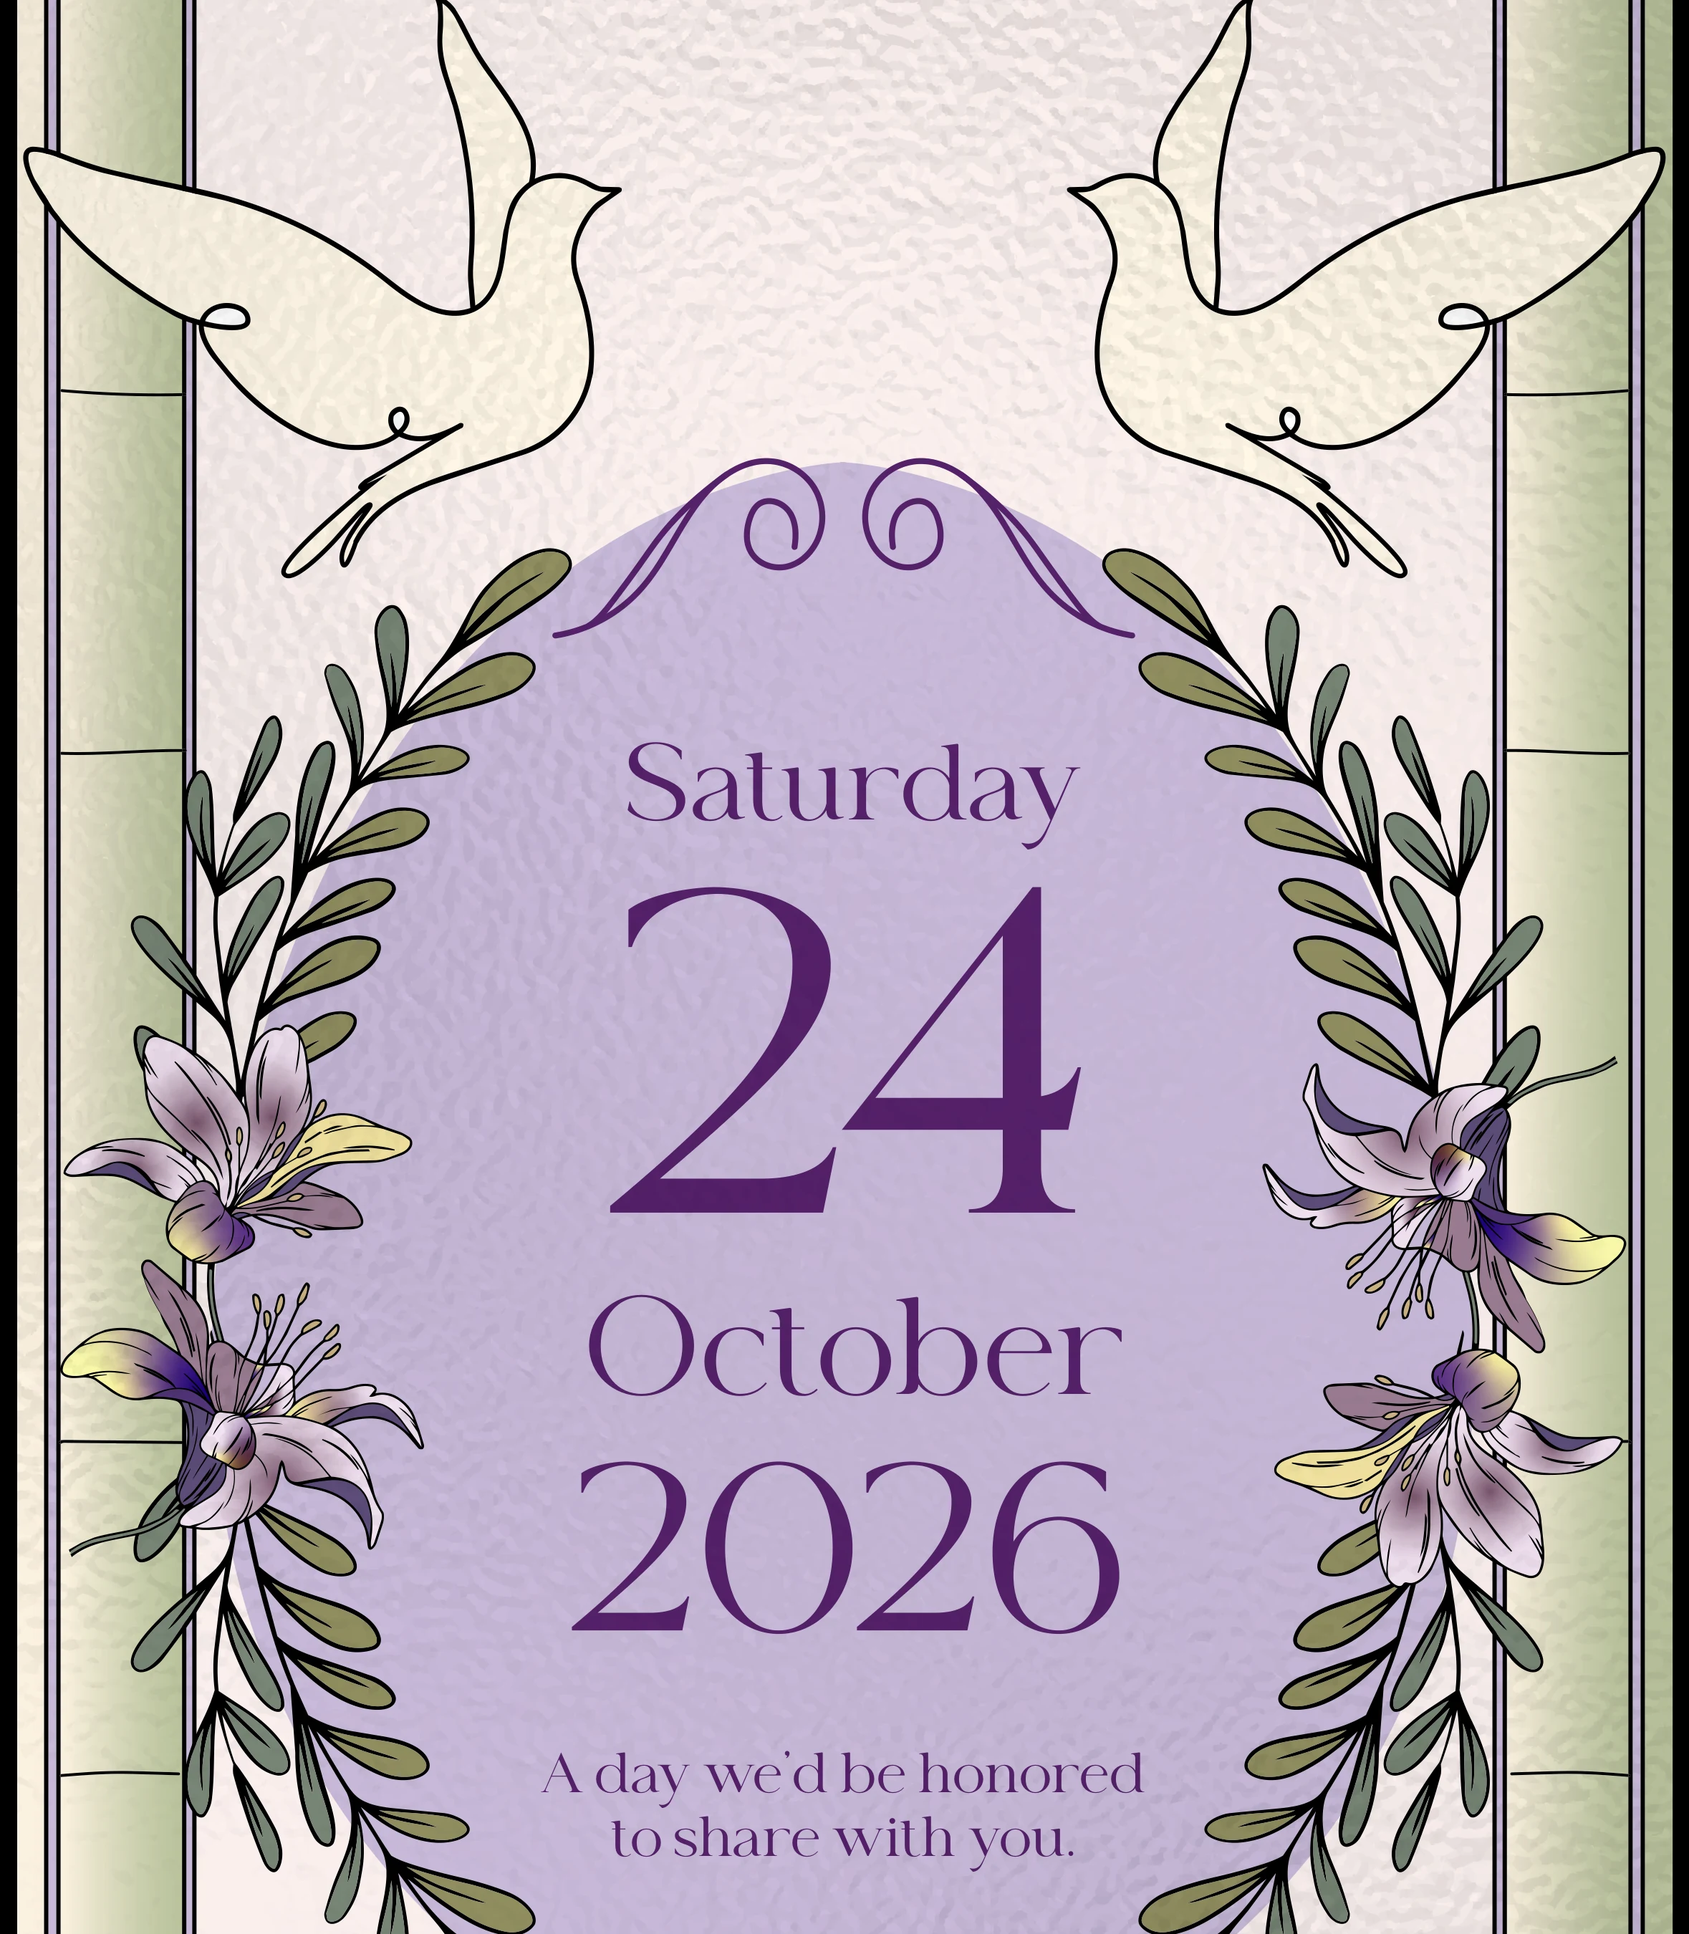
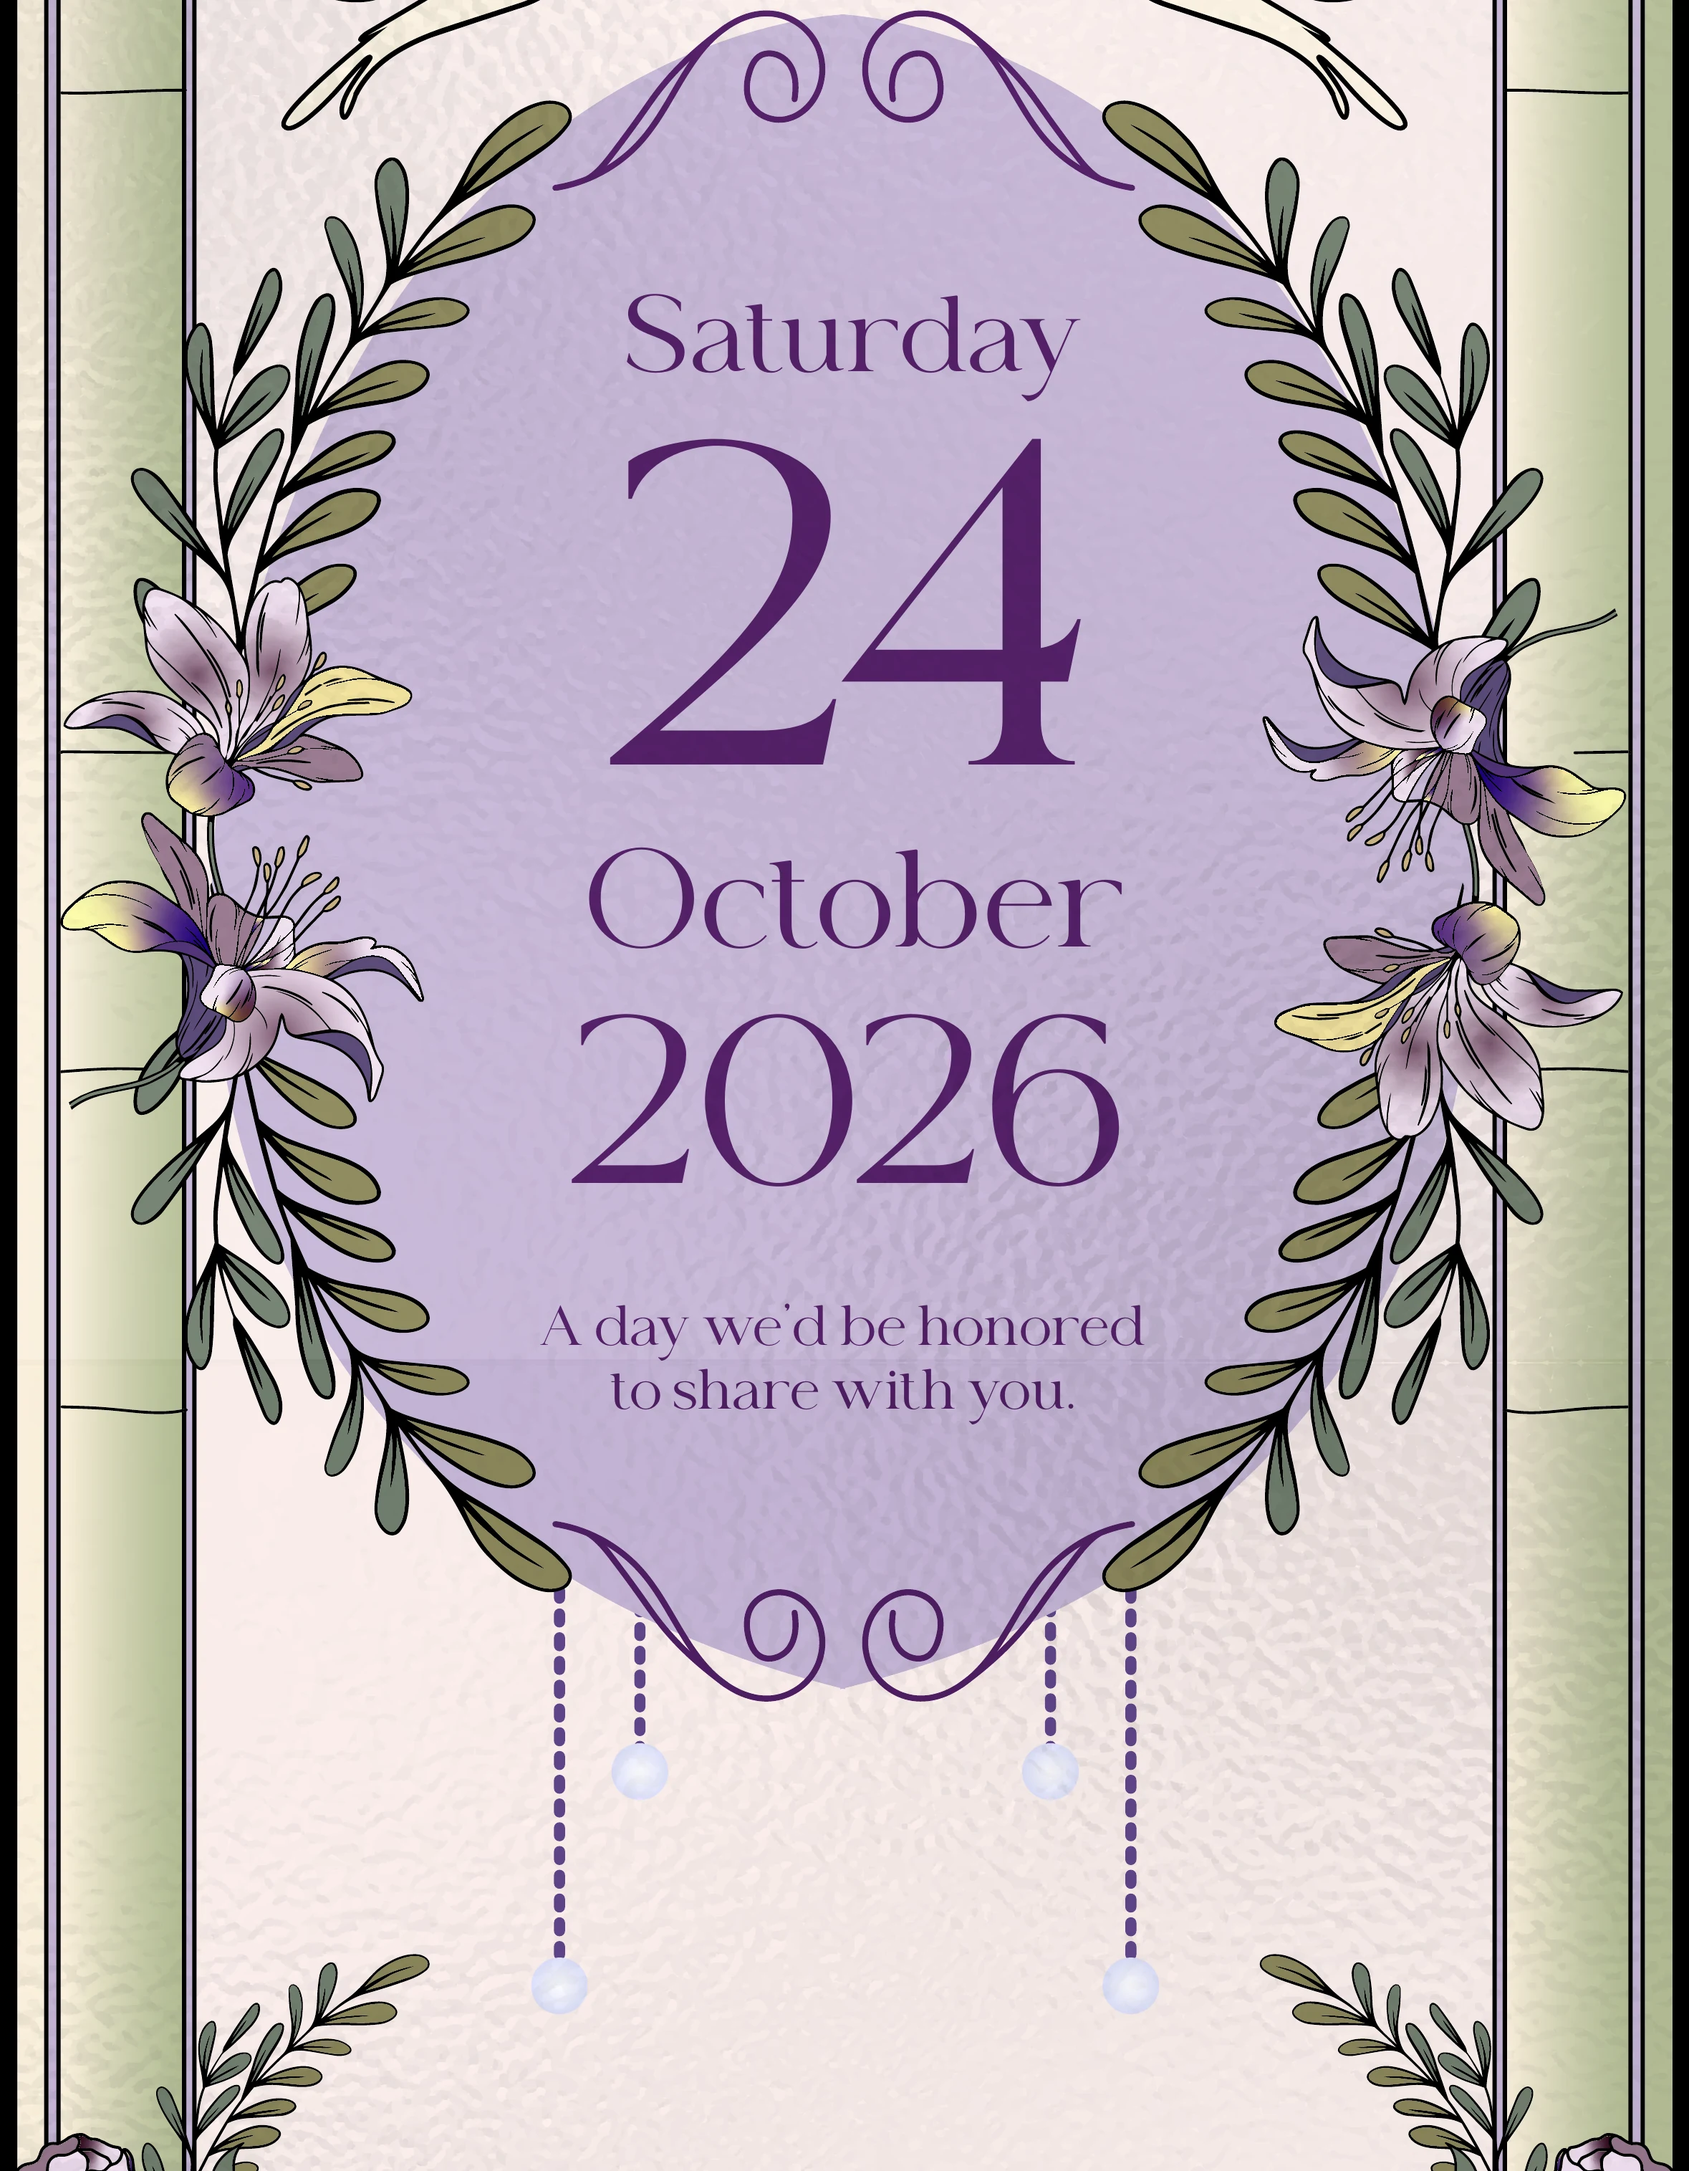
Rebuild invitation to match new shorter PDF design: remove notes section, add song requests, keep purple countdown

diff --git a/index.html b/index.html
@@ -445,44 +445,41 @@
 
 <div class="invite-page">
   <div class="invite-wrap" id="inviteWrap">
-    <img class="bg" src="images/section_00.webp" alt="Stained-glass arch with doves and lilies framing the initial M, for the wedding of Nancy and Marc" width="2358" height="2300">
-    <img class="bg" src="images/section_01.webp?v=3" alt="" role="presentation" width="2358" height="1100">
-    <img class="bg" src="images/section_02.webp" alt="Nancy Nashaat and Marc Adel, together with their families, joyfully invite you to celebrate their wedding" width="2358" height="2500">
-    <img class="bg" src="images/section_03.webp" alt="Saturday 24 October 2026 — a day we'd be honored to share with you" width="2358" height="2700">
-    <img class="bg" src="images/section_04.webp?v=2" alt="Countdown to the wedding" width="2358" height="1670">
-    <img class="bg" src="images/section_05.webp?v=2" alt="Ceremony at St. Mark Coptic Orthodox Church, please arrive by 3:30 PM" width="2358" height="2134">
-    <img class="bg" src="images/section_06.webp?v=2" alt="Reception at Hilton Cairo Heliopolis, The Garden, doors open at 5:30 PM" width="2358" height="1198">
-    <img class="bg" src="images/section_07.webp?v=4" alt="RSVP form" width="2358" height="2398">
-    <img class="bg" src="images/section_08.webp" alt="A few friendly notes" width="2358" height="1406">
-    <img class="bg" src="images/section_09.webp?v=2" alt="A little note about little ones, church parking, and greetings and photos" width="2358" height="1994">
-    <img class="bg" src="images/section_10.webp" alt="" role="presentation" width="2358" height="742">
-    <img class="bg" src="images/section_11.webp" alt="We can't wait to celebrate with you — thank you for being part of one of the most meaningful days of our lives. With love, Nancy and Marc" width="2358" height="1836">
+    <img class="bg" src="images/section_00.webp" alt="Stained-glass arch with doves and lilies framing the initial M, for the wedding of Nancy and Marc" width="2358" height="2250">
+    <img class="bg" src="images/section_01.webp" alt="So they are no longer two, but one flesh. Therefore what God has joined together, let no one separate. (Matthew 19:6) — Nancy Nashaat and Marc Adel" width="2358" height="2640">
+    <img class="bg" src="images/section_02.webp" alt="Together with their families, joyfully invite you to celebrate their wedding" width="2358" height="1635">
+    <img class="bg" src="images/section_03.webp" alt="Saturday 24 October 2026 — a day we'd be honored to share with you" width="2358" height="3030">
+    <img class="bg" src="images/section_04.webp" alt="Countdown for the big day! Ceremony at St. Mark Coptic Orthodox Church, please arrive by 3:30 PM. Can't join us in person? Watch the ceremony live on Youtube." width="2358" height="3075">
+    <img class="bg" src="images/section_05.webp" alt="Reception following the ceremony at Hilton Cairo Heliopolis, Venue: The Garden, doors open at 5:30 PM" width="2358" height="1620">
+    <img class="bg" src="images/section_06.webp" alt="RSVP form — sweet dreams for your little ones while you celebrate with us" width="2358" height="2700">
+    <img class="bg" src="images/section_07.webp" alt="Song requests — help us keep the dance full by suggesting a song" width="2358" height="2175">
+    <img class="bg" src="images/section_08.webp" alt="We can't wait to celebrate with you — thank you for being part of one of the most meaningful days of our lives. With love, Nancy and Marc" width="2358" height="1965">
 
     <!-- Ceremony: Get directions (real GPS pin, from the couple's data) -->
     <a class="hit" id="linkChurch" href="https://www.google.com/maps?q=30.092389,31.3296598" target="_blank" rel="noopener"
-       style="left:40.034cqw; top:494.148cqw; width:19.771cqw; height:4.258cqw;"
+       style="left:39.440cqw; top:502.884cqw; width:20.992cqw; height:4.750cqw;"
        aria-label="Get directions to St. Mark Coptic Orthodox Church"></a>
 
     <!-- Ceremony: Watch live -->
     <a class="hit" id="linkWatch" href="https://www.youtube.com/watch?v=KPPSCLWU6KE" target="_blank" rel="noopener"
-       style="left:42.519cqw; top:514.750cqw; width:14.809cqw; height:4.266cqw;"
+       style="left:41.942cqw; top:523.579cqw; width:15.988cqw; height:4.665cqw;"
        aria-label="Watch the ceremony live on YouTube"></a>
 
-    <!-- Ceremony: Add to Calendar -->
+    <!-- Ceremony: Add to Calendar (text is baked into the new artwork, so this is a transparent hit area only) -->
     <button type="button" class="cal-link" id="calChurchLink"
-            style="left:33cqw; top:519.5cqw; width:34cqw; font-size:2.4cqw;">+ Add to Calendar</button>
+            style="left:37.489cqw; top:530.619cqw; width:24.894cqw; height:4.283cqw;" aria-label="Add ceremony to calendar"></button>
 
     <!-- Reception: Get directions (real GPS pin) -->
     <a class="hit" id="linkVenue" href="https://www.google.com/maps?q=30.1067689,31.3645509" target="_blank" rel="noopener"
-       style="left:39.593cqw; top:566.921cqw; width:20.950cqw; height:4.512cqw;"
+       style="left:33.249cqw; top:577.608cqw; width:33.927cqw; height:4.453cqw;"
        aria-label="Get directions to Hilton Cairo Heliopolis"></a>
 
-    <!-- Reception: Add to Calendar -->
+    <!-- Reception: Add to Calendar (text is baked into the new artwork, so this is a transparent hit area only) -->
     <button type="button" class="cal-link" id="calReceptionLink"
-            style="left:33cqw; top:571.2cqw; width:34cqw; font-size:2.4cqw;">+ Add to Calendar</button>
+            style="left:39.143cqw; top:583.927cqw; width:22.180cqw; height:4.877cqw;" aria-label="Add reception to calendar"></button>
 
     <!-- Live countdown, styled to match the flip-tile artwork it replaces -->
-    <div class="countdown" id="countdown" style="left:19.805cqw; top:417.697cqw; width:61.154cqw;" aria-live="off">
+    <div class="countdown" id="countdown" style="left:19.720cqw; top:419.847cqw; width:61.493cqw;" aria-live="off">
       <div class="cd-group">
         <div class="cd-tiles"><div class="cd-tile" data-slot="d0"><span>0</span></div><div class="cd-tile" data-slot="d1"><span>0</span></div></div>
         <div class="cd-label">Days</div>
@@ -506,32 +503,46 @@
     <form id="rsvpForm" autocomplete="on">
       <input class="field" type="text" id="fullName" name="fullName" required
              aria-label="Full name" autocomplete="name"
-             style="left:27.439cqw; top:595.225cqw; width:44.970cqw; height:3.800cqw; font-size:2.4cqw;">
+             style="left:27.396cqw; top:629.220cqw; width:45.674cqw; height:3.859cqw; font-size:2.4cqw;">
 
-      <label class="radio-hit" style="left:27.583cqw; top:608.846cqw; width:7.829cqw; height:3.766cqw;">
+      <label class="radio-hit" style="left:27.057cqw; top:642.451cqw; width:14.080cqw; height:4.241cqw;">
         <input type="radio" name="attending" value="yes" required aria-label="Yes, I will attend">
-        <span class="radio-dot" style="top:0.679cqw; width:2.578cqw; height:2.587cqw;"></span>
+        <span class="radio-dot" style="left:0.848cqw; top:0.848cqw; width:2.545cqw; height:2.545cqw;"></span>
       </label>
-      <label class="radio-hit" style="left:27.583cqw; top:614.919cqw; width:6.887cqw; height:3.757cqw;">
+      <label class="radio-hit" style="left:27.057cqw; top:648.304cqw; width:14.080cqw; height:4.241cqw;">
         <input type="radio" name="attending" value="no" aria-label="No, I can't attend">
-        <span class="radio-dot" style="top:0.340cqw; width:2.578cqw; height:2.578cqw;"></span>
+        <span class="radio-dot" style="left:0.848cqw; top:0.848cqw; width:2.545cqw; height:2.545cqw;"></span>
       </label>
 
-      <label class="radio-hit" style="left:27.583cqw; top:628.931cqw; width:7.829cqw; height:3.757cqw;">
+      <label class="radio-hit" style="left:27.057cqw; top:662.680cqw; width:14.080cqw; height:4.241cqw;">
         <input type="radio" name="plusOne" value="yes" aria-label="Yes, with a guest">
-        <span class="radio-dot" style="top:0.679cqw; width:2.578cqw; height:2.587cqw;"></span>
+        <span class="radio-dot" style="left:0.848cqw; top:0.848cqw; width:2.545cqw; height:2.545cqw;"></span>
       </label>
-      <label class="radio-hit" style="left:27.583cqw; top:634.996cqw; width:6.879cqw; height:3.766cqw;">
+      <label class="radio-hit" style="left:27.057cqw; top:668.533cqw; width:14.080cqw; height:4.241cqw;">
         <input type="radio" name="plusOne" value="no" aria-label="No, attending alone">
-        <span class="radio-dot" style="top:0.339cqw; width:2.578cqw; height:2.587cqw;"></span>
+        <span class="radio-dot" style="left:0.848cqw; top:0.848cqw; width:2.545cqw; height:2.545cqw;"></span>
       </label>
 
       <input class="field" type="text" id="guestName" name="guestName" hidden
              placeholder="Guest's name" aria-label="Guest name" autocomplete="off"
-             style="left:27.439cqw; top:647.769cqw; width:44.970cqw; height:3.800cqw; font-size:2.4cqw;">
+             style="left:27.396cqw; top:681.128cqw; width:45.674cqw; height:4.495cqw; font-size:2.4cqw;">
 
       <button class="submit-hit" type="submit" id="submitBtn" aria-label="Submit RSVP"
-              style="left:36.522cqw; top:663.036cqw; width:26.802cqw; height:5.428cqw;"></button>
+              style="left:27.226cqw; top:707.337cqw; width:46.141cqw; height:3.393cqw;"></button>
+    </form>
+
+    <!-- Song requests -->
+    <form id="songForm" autocomplete="off">
+      <input class="field" type="text" id="songName" name="songName" required
+             aria-label="Song name"
+             style="left:27.735cqw; top:757.252cqw; width:45.335cqw; height:4.665cqw; font-size:2.4cqw;">
+
+      <input class="field" type="text" id="songArtist" name="songArtist"
+             aria-label="Artist"
+             style="left:27.947cqw; top:776.760cqw; width:44.826cqw; height:4.623cqw; font-size:2.4cqw;">
+
+      <button class="submit-hit" type="submit" id="songSubmitBtn" aria-label="Send song request"
+              style="left:34.139cqw; top:789.398cqw; width:29.347cqw; height:5.047cqw;"></button>
     </form>
 
     <div class="toast" id="toast" role="status"></div>
@@ -929,6 +940,44 @@ window.storage = {
       showToast("Couldn't send (" + detail + ") — please try again.");
     } finally {
       submitBtn.disabled = false;
+    }
+  });
+
+  /* ---------------- Song requests ---------------- */
+  const SONG_COLLECTION = 'song_requests';
+  const songForm = document.getElementById('songForm');
+  const songSubmitBtn = document.getElementById('songSubmitBtn');
+
+  songForm.addEventListener('submit', async (e) => {
+    e.preventDefault();
+    const songName = document.getElementById('songName').value.trim();
+    const songArtist = document.getElementById('songArtist').value.trim();
+
+    if(!songName){
+      showToast('Please enter a song name.');
+      document.getElementById('songName').focus();
+      return;
+    }
+
+    const key = 'song:' + Date.now() + '-' + Math.random().toString(36).slice(2, 8);
+    const data = {
+      songName,
+      artist: songArtist,
+      submittedAt: new Date().toLocaleString('en-GB', { timeZone:'Africa/Cairo', dateStyle:'medium', timeStyle:'medium' }) + ' (Cairo)',
+      submittedAtMs: Date.now()
+    };
+
+    songSubmitBtn.disabled = true;
+    try {
+      await db.collection(SONG_COLLECTION).doc(key).set(data);
+      showToast("Thanks! We'll try to play it.");
+      songForm.reset();
+    } catch(err) {
+      console.error(err);
+      const detail = (err && (err.code || err.message)) || 'unknown error';
+      showToast("Couldn't send (" + detail + ") — please try again.");
+    } finally {
+      songSubmitBtn.disabled = false;
     }
   });
 
